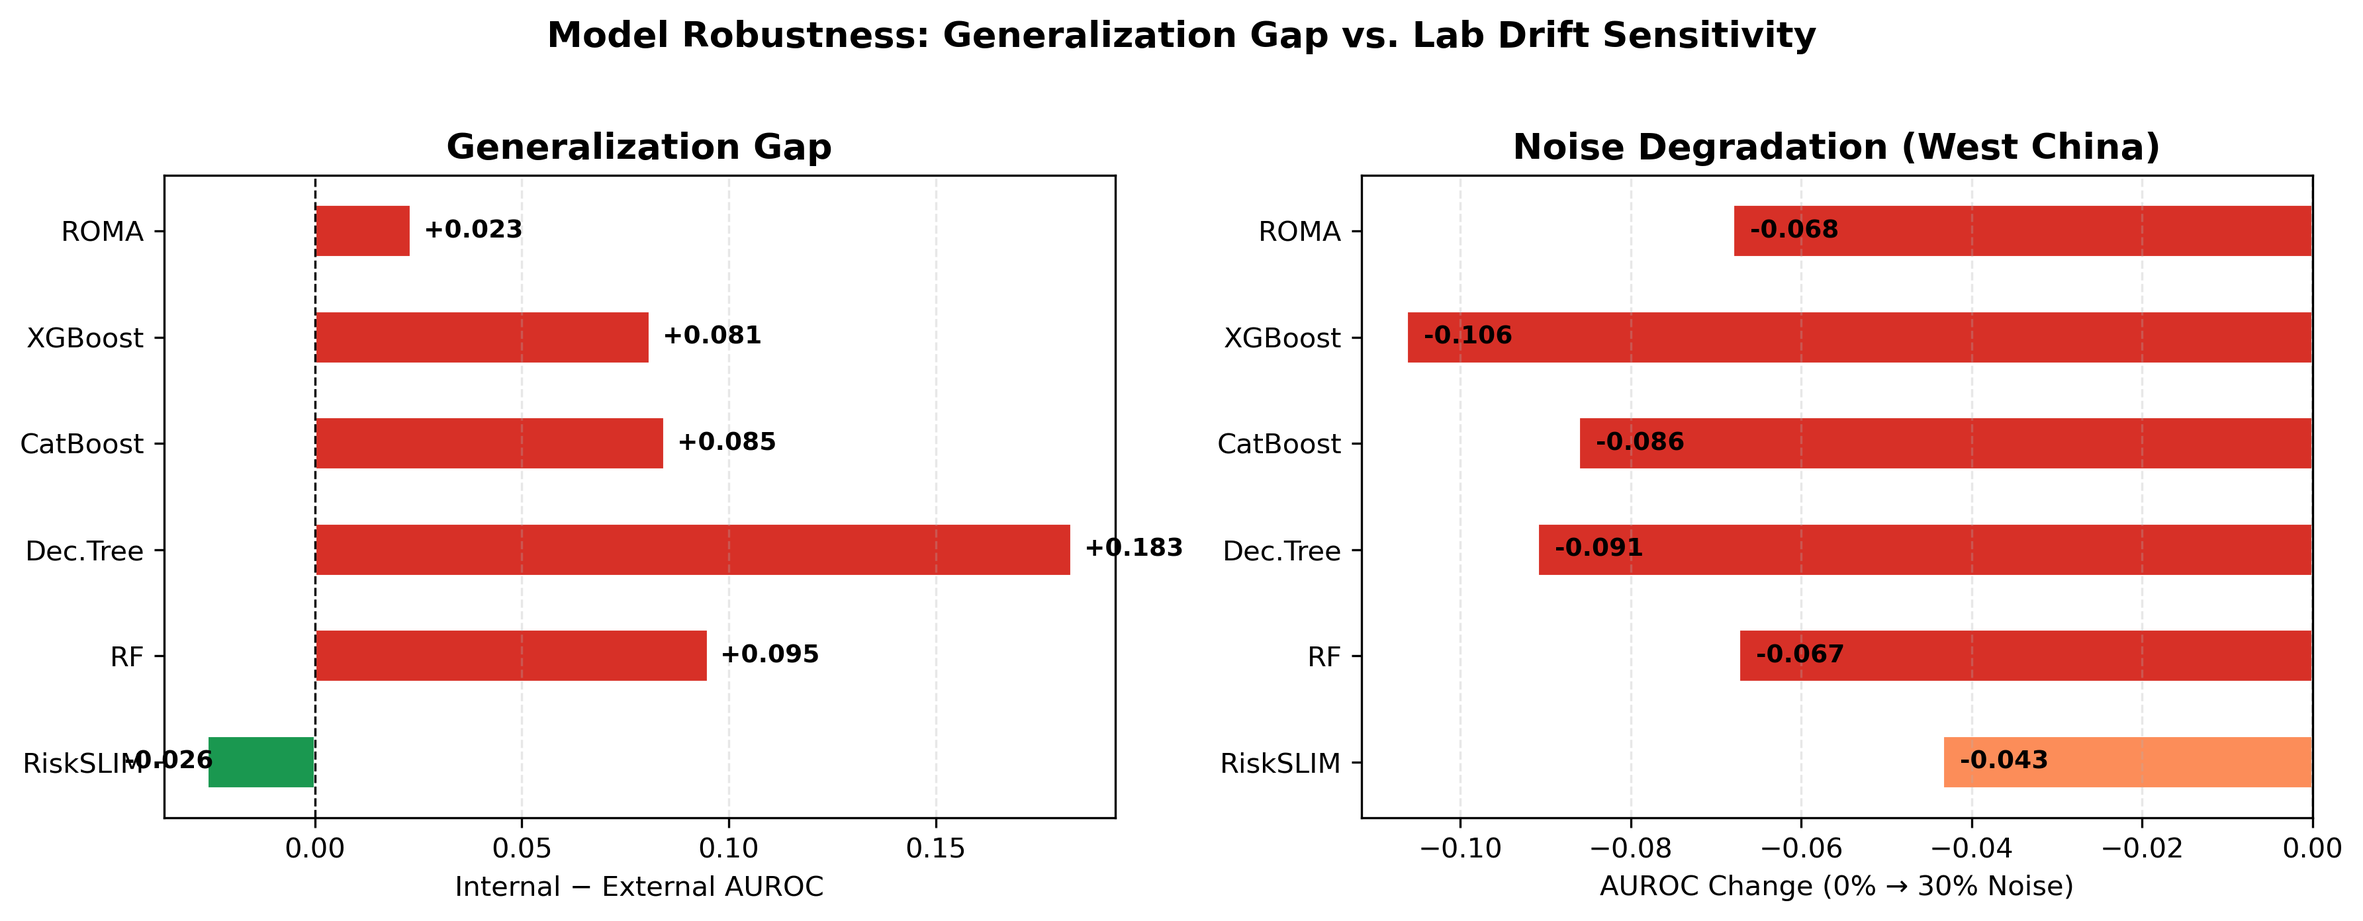
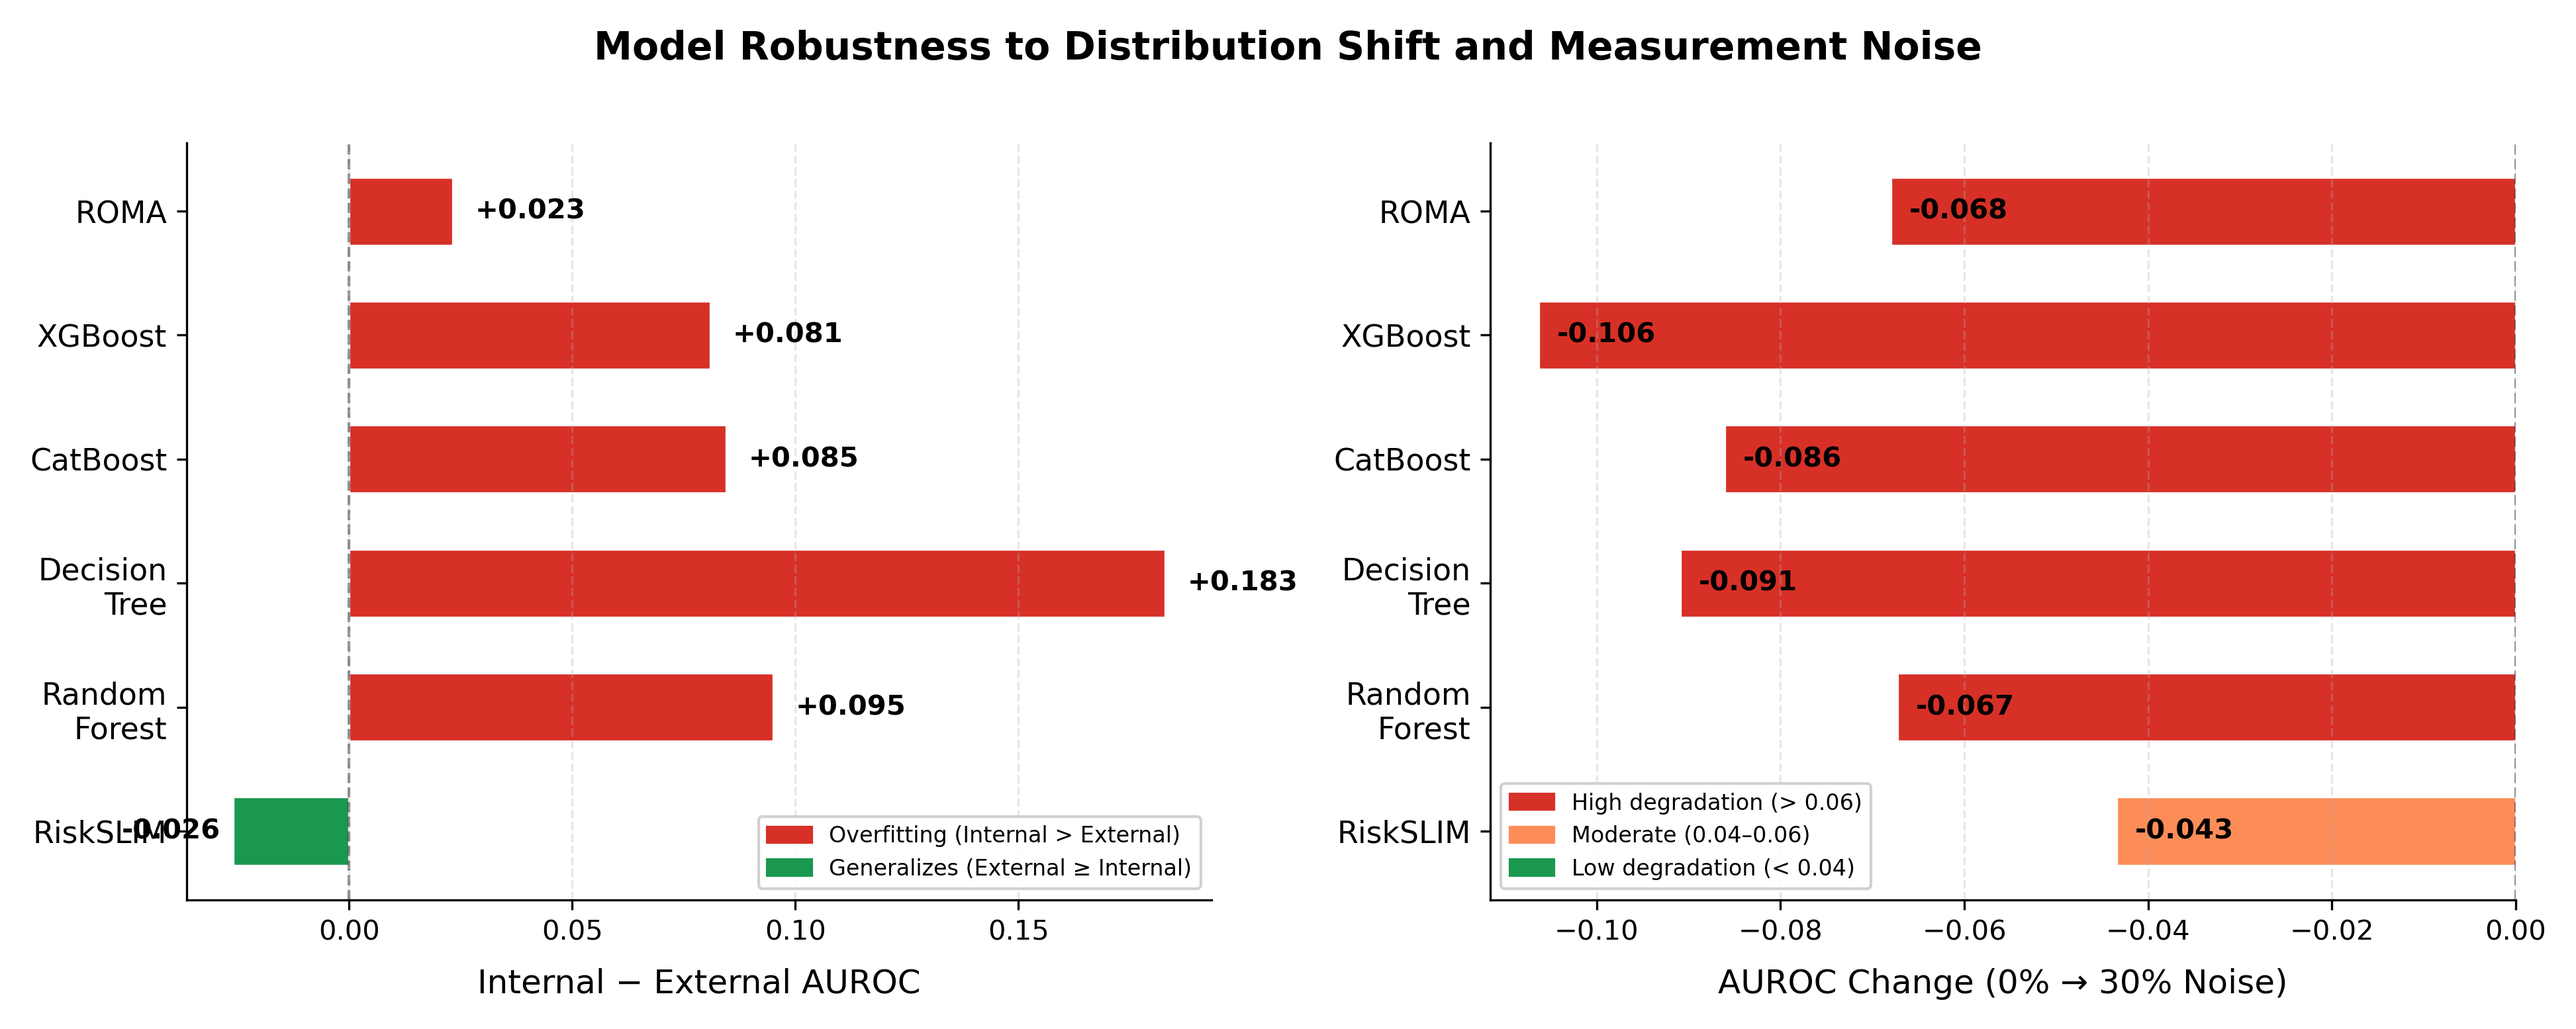
Regenerate all figures with consistent 6-model benchmark data, publication-quality formatting

diff --git a/docs/results_summary.md b/docs/results_summary.md
@@ -4,9 +4,9 @@
 
 | Model | OG China (Primary) | West China | Japanese |
 | :---- | :---: | :---: | :---: |
-| RiskSLIM | 0.9014 | 0.9279 | 0.7631 |
-| XGBoost | 0.9461 | 0.8821 | 0.6837 |
-| ROMA | 0.8962 | 0.8548 | 0.7478 |
+| RiskSLIM | 0.9008 | 0.9280 | 0.7646 |
+| XGBoost | 0.9468 | 0.8818 | 0.6861 |
+| ROMA | 0.8965 | 0.8556 | 0.7451 |
 
 ![Cross-cohort AUROC](cross_cohort_auroc.png)
 
@@ -14,27 +14,27 @@
 
 ### OG China (Primary)
 
-| Model | 5% Noise | 10% Noise | 15% Noise | 20% Noise | 25% Noise | 30% Noise |
-| :---- | :---: | :---: | :---: | :---: | :---: | :---: |
-| RiskSLIM | 0.9014 | 0.8962 | 0.8900 | 0.8871 | 0.8818 | 0.8772 |
-| XGBoost | 0.9461 | 0.9272 | 0.9118 | 0.8995 | 0.8861 | 0.8707 |
-| ROMA | 0.8962 | 0.8917 | 0.8842 | 0.8802 | 0.8741 | 0.8660 |
+| Model | 0% Noise | 5% Noise | 10% Noise | 15% Noise | 20% Noise | 25% Noise | 30% Noise |
+| :---- | :---: | :---: | :---: | :---: | :---: | :---: | :---: |
+| RiskSLIM | 0.9032 | 0.9008 | 0.8958 | 0.8919 | 0.8865 | 0.8821 | 0.8773 |
+| XGBoost | 0.9716 | 0.9468 | 0.9271 | 0.9127 | 0.8986 | 0.8844 | 0.8733 |
+| ROMA | 0.8986 | 0.8965 | 0.8905 | 0.8862 | 0.8802 | 0.8731 | 0.8665 |
 
 ### West China
 
-| Model | 5% Noise | 10% Noise | 15% Noise | 20% Noise | 25% Noise | 30% Noise |
-| :---- | :---: | :---: | :---: | :---: | :---: | :---: |
-| RiskSLIM | 0.9279 | 0.9243 | 0.9156 | 0.9065 | 0.8958 | 0.8861 |
-| XGBoost | 0.8821 | 0.8673 | 0.8484 | 0.8259 | 0.8020 | 0.7879 |
-| ROMA | 0.8548 | 0.8383 | 0.8278 | 0.8209 | 0.8137 | 0.8075 |
+| Model | 0% Noise | 5% Noise | 10% Noise | 15% Noise | 20% Noise | 25% Noise | 30% Noise |
+| :---- | :---: | :---: | :---: | :---: | :---: | :---: | :---: |
+| RiskSLIM | 0.9292 | 0.9280 | 0.9238 | 0.9163 | 0.9070 | 0.8981 | 0.8858 |
+| XGBoost | 0.8906 | 0.8818 | 0.8678 | 0.8467 | 0.8280 | 0.8047 | 0.7843 |
+| ROMA | 0.8753 | 0.8556 | 0.8380 | 0.8280 | 0.8231 | 0.8137 | 0.8073 |
 
 ### Japanese
 
-| Model | 5% Noise | 10% Noise | 15% Noise | 20% Noise | 25% Noise | 30% Noise |
-| :---- | :---: | :---: | :---: | :---: | :---: | :---: |
-| RiskSLIM | 0.7631 | 0.7612 | 0.7615 | 0.7586 | 0.7578 | 0.7557 |
-| XGBoost | 0.6837 | 0.6834 | 0.6705 | 0.6599 | 0.6398 | 0.6368 |
-| ROMA | 0.7478 | 0.7440 | 0.7475 | 0.7446 | 0.7348 | 0.7349 |
+| Model | 0% Noise | 5% Noise | 10% Noise | 15% Noise | 20% Noise | 25% Noise | 30% Noise |
+| :---- | :---: | :---: | :---: | :---: | :---: | :---: | :---: |
+| RiskSLIM | 0.7689 | 0.7646 | 0.7627 | 0.7580 | 0.7571 | 0.7574 | 0.7522 |
+| XGBoost | 0.6836 | 0.6861 | 0.6803 | 0.6751 | 0.6658 | 0.6508 | 0.6397 |
+| ROMA | 0.7485 | 0.7451 | 0.7442 | 0.7468 | 0.7392 | 0.7351 | 0.7254 |
 
 ![Lab drift degradation](lab_drift_degradation.png)
 
